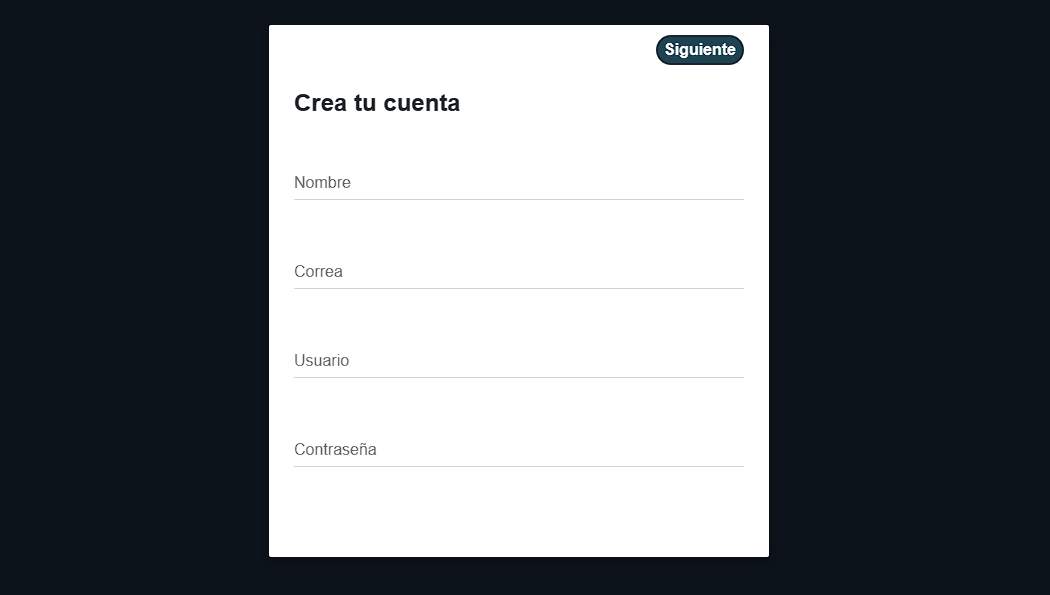
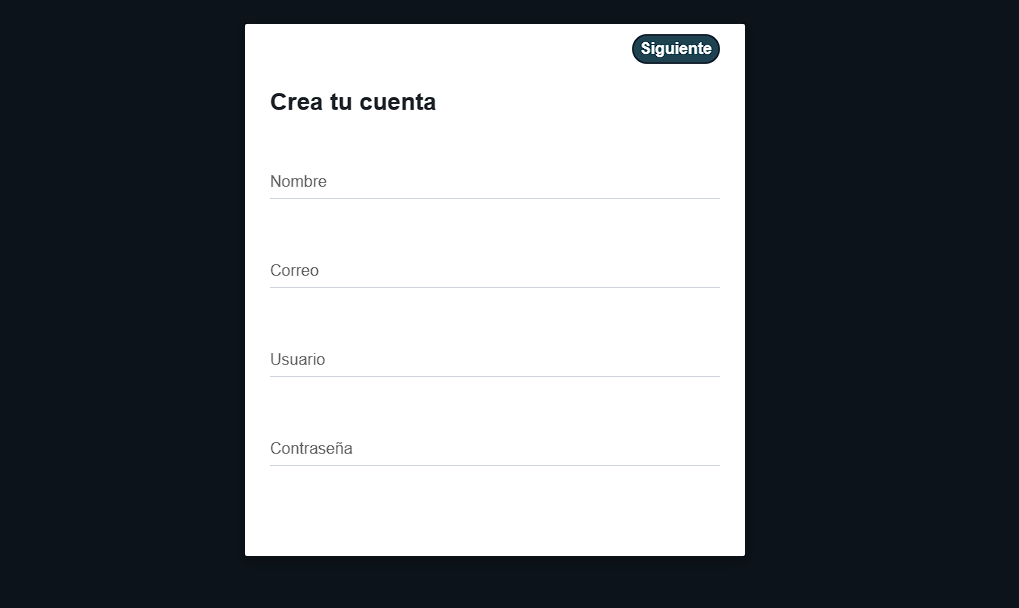
Add files via upload

Changed region(s): [[0.2434, 0.0303, 0.7301, 0.9378]]

diff --git a/forms.py b/forms.py
@@ -20,6 +20,6 @@ class RegistrarForm(FlaskForm):
     enviar=SubmitField('Siguiente')
     name=StringField('Nombre')
     user=StringField('Usuario')
-    email=StringField('Correa')
+    email=StringField('Correo')
     contra=PasswordField('Contraseña')   
 
